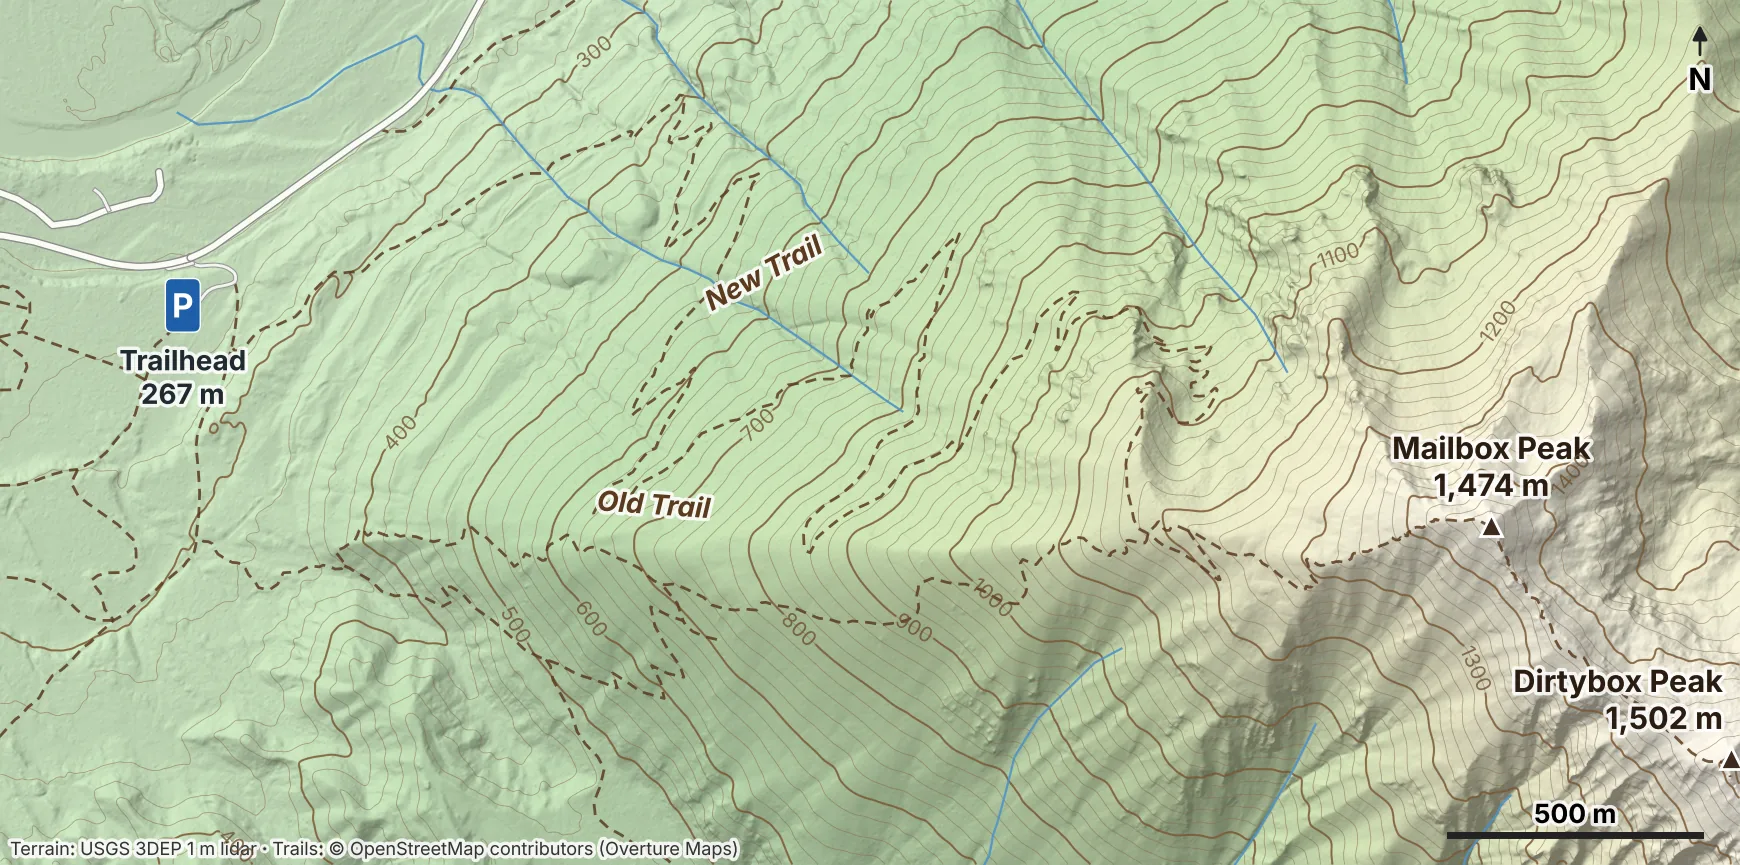
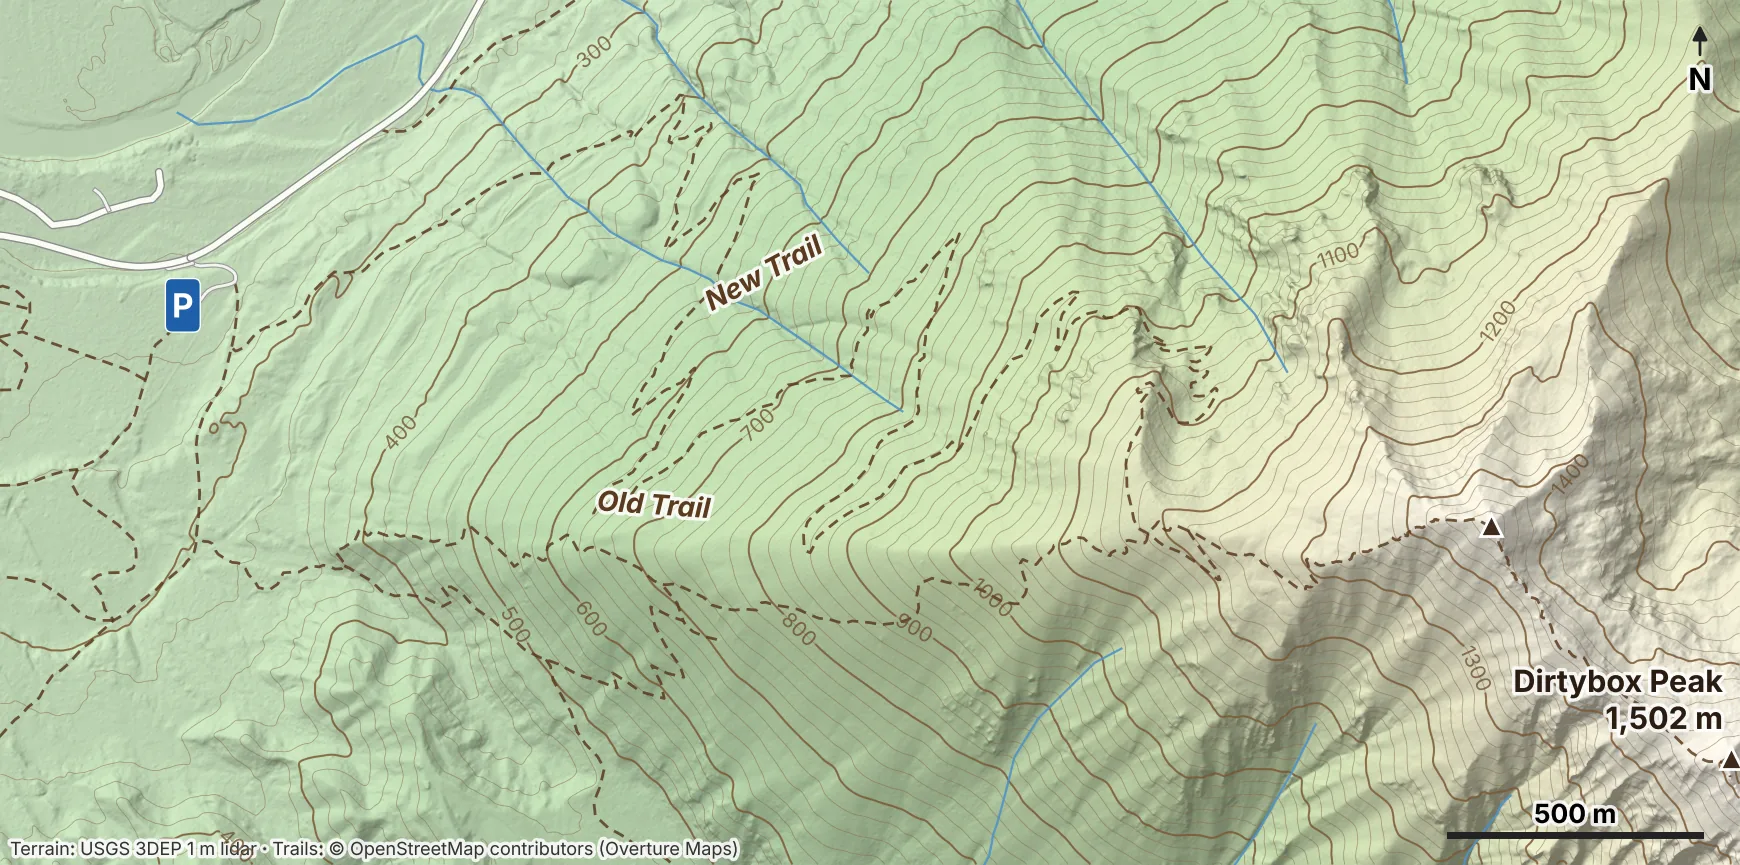
Name every milestone on the map, with its planned time
Each map mark now carries the stop's name and its km and time (planned, or
logged once checked in), coloured for done and next. Stops that share a spot
share one label ("Halfway up/down, 870 m", both times). Labels are placed
automatically beside the mark, away from the route line, other marks and other
labels, on a soft card so they read over the base map's own lettering. Works
for every route; a route can opt out with map.labels=false.

Mailbox map: the summit and trailhead names are no longer printed in the image,
since the planner labels them.

Claude-Session: https://claude.ai/code/session_015zTw8gMz1azWT3aDUnP7v4

Changed region(s): [[0.7759, 0.4994, 0.931, 0.5931], [0.0621, 0.4058, 0.1552, 0.4682]]

diff --git a/planner.html b/planner.html
@@ -109,6 +109,11 @@ svg{display:block;width:100%;height:auto;margin:2px 0 10px}
 .mk text{font:700 19px system-ui,sans-serif;fill:#1C2A2E;text-anchor:middle;dominant-baseline:central;pointer-events:none}
 .mk.done rect{fill:#3C7A4E;stroke:#fff} .mk.done text{fill:#fff}
 .mk.next rect{stroke:#B0432A;stroke-width:7}
+.mlab{pointer-events:none}
+.mlab rect{fill:#fff;opacity:.82}
+.mlab text{font:700 22px system-ui,-apple-system,sans-serif;fill:#14201B;paint-order:stroke;stroke:#fff;stroke-width:4px;stroke-linejoin:round}
+.mlab .t2{font:600 18px system-ui,-apple-system,sans-serif;fill:#3B4A44}
+.mlab.done text{fill:#2F6A42} .mlab.next text{fill:#9A3A22}
 .nowdot{fill:#B0432A} .gpsdot{fill:#1669C7}
 .gpshalo{fill:#fff}
 .progcase{fill:none;stroke:#fff;stroke-width:16;stroke-linecap:round;stroke-linejoin:round;opacity:.9}
@@ -316,6 +321,56 @@ STOPS.forEach((s,i)=>{const p=R.map.pts.find(q=>q[2]===i);
   const g=MARKS.find(g=>{const q=R.map.pts.find(q=>q[2]===g[0]);return Math.hypot(p[0]-q[0],p[1]-q[1])<30*(R.map.w/1163)});
   g?g.push(i):MARKS.push([i])});
 
+/* ---------- milestone names on the map: placed once, beside each mark, where the line and
+   other labels are not; the planned (or logged) time is redrawn with every update ---------- */
+const MARK_W=g=>{const lab=g.map(i=>i+1).join('·');return g.length>1?19*(0.9+lab.length*0.42):19};
+function markName(g){
+  const ns=[...new Set(g.map(i=>STOPS[i].n.replace(/ \((down|return)\)$/,'')))];
+  if(ns.length===2&&ns[0].replace(/\bup\b/,'~')===ns[1].replace(/\bdown\b/,'~'))return ns[0].replace(/\bup\b/,'up/down');
+  return ns.join(' · ');
+}
+let LABELS=null;
+function labelLayout(){
+  if(LABELS)return LABELS;
+  const F1=22,F2=18,H=F1+F2+8;
+  // the drawn line, sampled every ~10 px, in map pixels
+  const line=[];for(let k=0;k<PTS.length-1;k++){const a=PTS[k],b=PTS[k+1],n=Math.max(1,Math.ceil(Math.hypot(b[0]-a[0],b[1]-a[1])/10));
+    for(let j=0;j<n;j++)line.push([a[0]+(b[0]-a[0])*j/n,a[1]+(b[1]-a[1])*j/n])}
+  const marks=MARKS.map(g=>{const p=PTS[STOP_AT[g[0]]],w=MARK_W(g)*K,h=19*K;return[p[0]-w,p[1]-h,p[0]+w,p[1]+h]});
+  const ov=(a,b)=>Math.max(0,Math.min(a[2],b[2])-Math.max(a[0],b[0]))*Math.max(0,Math.min(a[3],b[3])-Math.max(a[1],b[1]));
+  const placed=[];
+  LABELS=MARKS.map((g,gi)=>{
+    const p=PTS[STOP_AT[g[0]]],name=markName(g);
+    const t2=g.length>1?g.map(()=>'00:00').join(' / '):`km ${STOPS[g[0]].km.toFixed(1)} · 00:00`;
+    const w=Math.max(name.length*F1*.62,t2.length*F2*.58)*K,h=H*K,mw=MARK_W(g)*K,gap=8*K,r=19*K;
+    // candidate spots: right, left, above, below, then the corners
+    const C=[[mw+gap,-h/2,'start'],[-mw-gap,-h/2,'end'],[0,-r-gap-h,'middle'],[0,r+gap,'middle'],
+             [mw*.7,-r-h,'start'],[-mw*.7,-r-h,'end'],[mw*.7,r,'start'],[-mw*.7,r,'end']];
+    let best=null;
+    C.forEach(([dx,dy,an],ci)=>{
+      const x0=an==='start'?p[0]+dx:an==='end'?p[0]+dx-w:p[0]-w/2, y0=p[1]+dy, box=[x0,y0,x0+w,y0+h];
+      let sc=ci*2;
+      if(box[0]<4||box[1]<4||box[2]>MW-4||box[3]>MH-4)sc+=1e6;
+      marks.forEach((m,mi)=>{if(mi!==gi)sc+=ov(box,m)*60});
+      placed.forEach(b=>{sc+=ov(box,b)*80});
+      line.forEach(q=>{if(q[0]>box[0]&&q[0]<box[2]&&q[1]>box[1]&&q[1]<box[3])sc+=40*K*K});
+      if(!best||sc<best.sc)best={sc,box,an,x:an==='start'?box[0]:an==='end'?box[2]:p[0],y:box[1]};
+    });
+    placed.push(best.box);
+    return{g,name,an:best.an,x:best.x,y:best.y};
+  });
+  return LABELS;
+}
+function mapLabels(P,L){
+  const st=i=>state.ci[i]!=null?'done':(P.started&&i===L+1)||(!P.started&&i===0)?'next':'';
+  return labelLayout().map(l=>{
+    const cls=l.g.some(i=>st(i)==='next')?'next':l.g.every(i=>st(i)==='done')?'done':'';
+    const t=l.g.map(i=>fmt(P.t[i])).join(' / '),t2=l.g.length>1?t:`km ${STOPS[l.g[0]].km.toFixed(1)} · ${t}`;
+    return `<g class="mlab ${cls}" transform="translate(${l.x.toFixed(1)},${l.y.toFixed(1)}) scale(${K.toFixed(3)})" text-anchor="${l.an}">`
+      +`<text y="20">${l.name}</text><text class="t2" y="42">${t2}</text></g>`;
+  }).join('');
+}
+
 /* ---------- words that differ from route to route ---------- */
 const DEFAULT_TEXT={
   turn:"Turn back if not here by {lim}. {rel}",
@@ -423,7 +478,7 @@ function modelAt(m){
   }
   return{mv,br};
 }
-const BUILD='2026-10-12 21:30';
+const BUILD='2026-10-12 22:15';
 const LOCAL=/^(file|content):$/.test(location.protocol)||!window.isSecureContext;
 const $=id=>document.getElementById(id);
 const toMin=s=>{if(!s)return null;const p=s.split(':').map(Number);return isNaN(p[0])?null:p[0]*60+p[1]};
@@ -1058,6 +1113,7 @@ function profile(P,now){
   const hereM=here?here.m:null, isGps=!!here&&here.gps;
   if(hereM!=null){const d=tracedPath(hereM);
     o+=`<path class="progcase" style="stroke-width:${16*K}" d="${d}"/><path class="prog${isGps?'':' est'}" style="stroke-width:${9*K}" d="${d}"/>`}
+  if(R.map.labels!==false)o+=mapLabels(P,L);
   MARKS.forEach(g=>{const p=PTS[STOP_AT[g[0]]],r=19;
     const st=i=>state.ci[i]!=null?'done':(P.started&&i===L+1)||(!P.started&&i===0)?'next':'';
     const cls=g.some(i=>st(i)==='next')?'next':g.every(i=>st(i)==='done')?'done':'';
@@ -1070,6 +1126,11 @@ function profile(P,now){
   }else{const k=P.started?Math.min(N-1,L+1):0;mapFocus=PTS[STOP_AT[k]].slice(0,2)}
   o+=mapBadge();
   $('mapov').innerHTML=o;
+  // a soft card behind each milestone name, sized to the text, so it reads over the map's own lettering
+  document.querySelectorAll('#mapov .mlab').forEach(g=>{try{const b=g.getBBox();if(!b.width)return;
+    const r=document.createElementNS('http://www.w3.org/2000/svg','rect');
+    r.setAttribute('x',b.x-5);r.setAttribute('y',b.y-2);r.setAttribute('width',b.width+10);r.setAttribute('height',b.height+4);r.setAttribute('rx',6);
+    g.insertBefore(r,g.firstChild)}catch(e){}});
 }
 
 /* ---------- wiring ---------- */

diff --git a/sw.js b/sw.js
@@ -1,5 +1,5 @@
 // Hike planner - offline cache. Every route in routes/catalog.js is stored on install.
-const BUILD='2026-10-12 21:30';
+const BUILD='2026-10-12 22:15';
 const CACHE='hike-'+BUILD;
 importScripts('./routes/catalog.js');
 const CORE=['./','./index.html','./planner.html','./manifest.webmanifest','./icon-192.png','./icon-512.png','./routes/catalog.js']

diff --git a/tools/render_map.py b/tools/render_map.py
@@ -65,11 +65,12 @@ for r in pq.read_table('land.parquet').to_pylist():
       ha="center" if 90<x<W-90 else ("right" if x>=W-90 else "left")
       ax.plot(x,y,marker='^',color='#3d2b1f',ms=16,mec='white',mew=2)
       n=r['names']['primary']
+      if n=='Mailbox Peak': continue          # the planner labels the summit itself
       e=z[int(min(H-1,y)),int(min(W-1,x))]
       ax.text(x+(8 if ha=="left" else -8 if ha=="right" else 0),y-22,f"{n}\n{e:,.0f} m",ha=ha,multialignment=ha,va='bottom',fontsize=22,weight='bold',color='#2b1d12',path_effects=halo)
 # trail labels and trailhead
 x,y=px(-121.6731,47.4668); ax.text(x-30,y+2,'P',fontsize=24,weight='bold',color='white',ha='center',va='center',bbox=dict(boxstyle='round,pad=0.2',fc='#1f5fa8',ec='white'))
-ax.text(x-30,y+40,'Trailhead\n267 m',fontsize=20,weight='bold',ha='center',va='top',color='#1f2a30',path_effects=halo)
+pass #ax.text(x-30,y+40,'Trailhead\n267 m',fontsize=20,weight='bold',ha='center',va='top',color='#1f2a30',path_effects=halo)
 for txt,lon,lat,rot in [('New Trail',-121.6585,47.4665,28),('Old Trail',-121.6615,47.4628,-4)]:
   x,y=px(lon,lat); ax.text(x,y,txt,fontsize=20,style='italic',weight='bold',color='#5b3a1e',rotation=rot,ha='center',path_effects=halo)
 x,y=px(-121.6650,47.4735); ax.text(x,y,'Middle Fork Snoqualmie River',fontsize=19,style='italic',color='#2d6ea3',rotation=17,ha='center',path_effects=halo)
